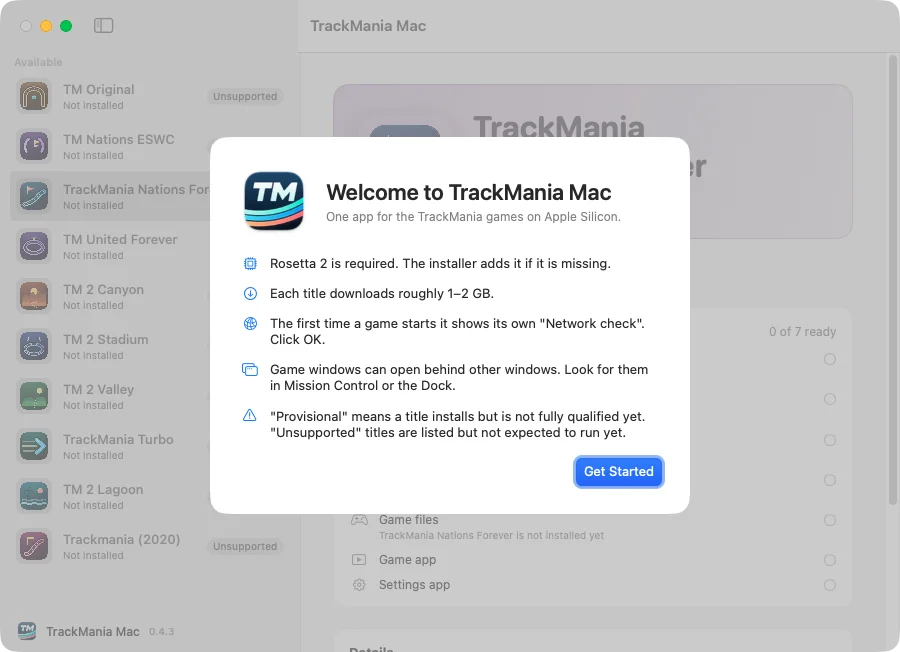
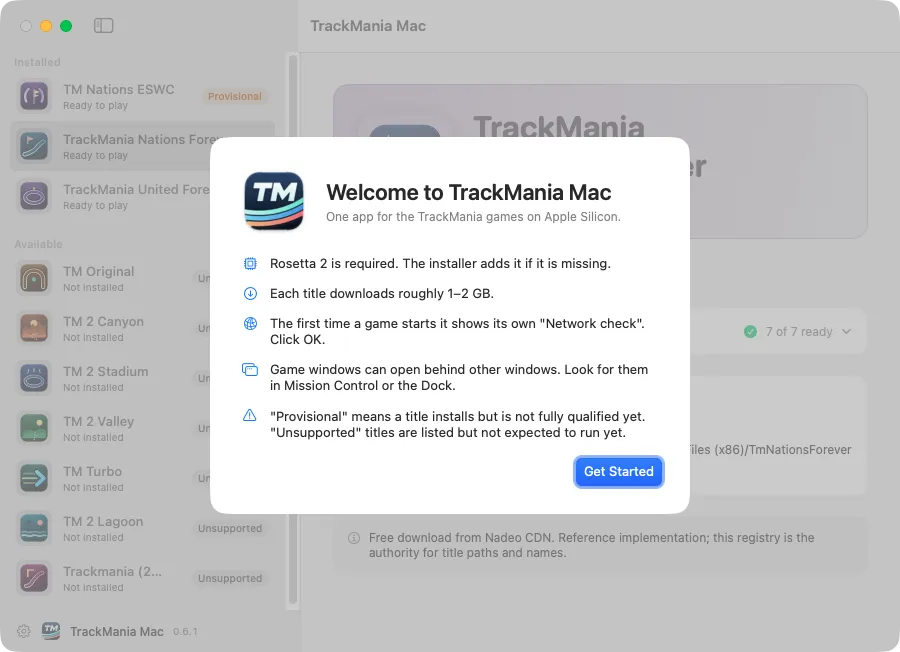
Retake hub screenshots with three installed games
The old shots showed every title as not installed, so the README and the
website never showed Play, Settings or the Installed section. The new ones
show Nations ESWC, Nations Forever and United Forever installed, and use the
darker support labels. The website WebP copies are regenerated to match.

diff --git a/README.md b/README.md
@@ -13,7 +13,7 @@ and the other games are listed but unsupported (see
 
 <picture>
   <source media="(prefers-color-scheme: dark)" srcset="docs/images/hub-dark.png">
-  <img src="docs/images/hub.png" alt="The TrackMania Mac hub app with Nations Forever selected, showing the Install button and setup checklist" width="900">
+  <img src="docs/images/hub.png" alt="The TrackMania Mac hub app with three installed games in the sidebar and Nations Forever selected, showing the Play button" width="900">
 </picture>
 
 This is an independent community project, not affiliated with Nadeo or Ubisoft.
